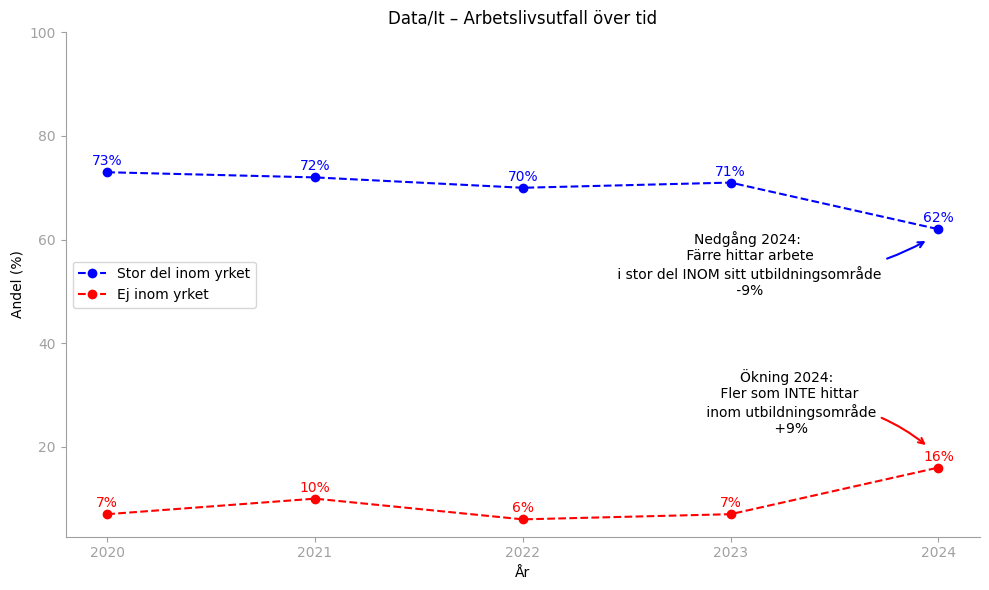
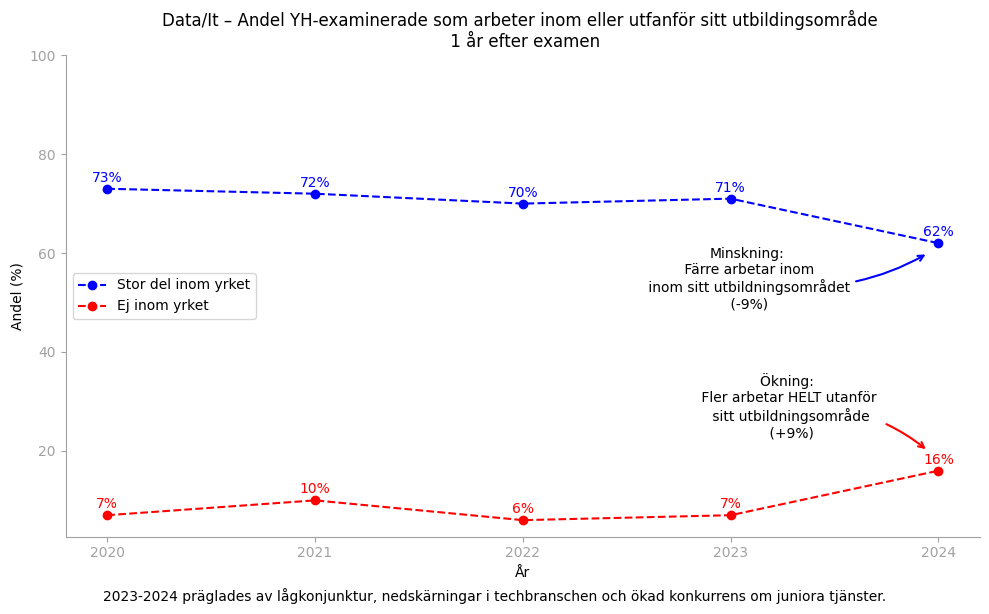
Added better description for storytelling found in studerande-page/page_3

diff --git a/frontend/pages/page_1.py b/frontend/pages/page_1.py
@@ -82,7 +82,7 @@ with tgb.Page() as page_1:
             tgb.text("# Analyser om ansökningsomgång för Kurser", mode="md")
         with tgb.layout(columns="1 3", gap="32px"):
             with tgb.part(class_name="aside-controls") as column_filters:
-                tgb.text("Increase/decrease results")
+                tgb.text("Öka/Minska resultat")
                 tgb.slider("{slider_val_one}", min=1, max=10, continuous=False)
                 tgb.text("Välj skola")
                 tgb.selector("{selected_utbildning}", lov=skolor, dropdown=True, multiple=False, filter=True)

diff --git a/frontend/pages/page_3.py b/frontend/pages/page_3.py
@@ -28,5 +28,5 @@ with tgb.Page() as page_3:
             )
             tgb.chart(figure="{line_graph_stud}")
         with tgb.part(class_name="text-align-center"):
-            tgb.text("## Utveckling gällande examinerande som hittar arbete inom utbildningsområde (Data/IT)", mode="md")
+            tgb.text("## Färre Data/IT-studenter får jobb inom sitt utbildningsområde - trend för 2024", mode="md")
             tgb.image(f"{IMAGE_DIRECTORY}/story_arbete.png", width="900px", height="auto")
